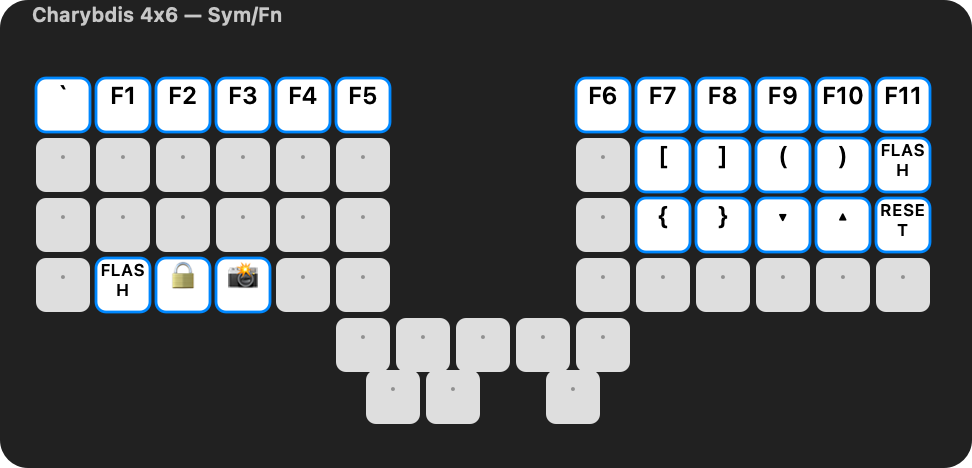
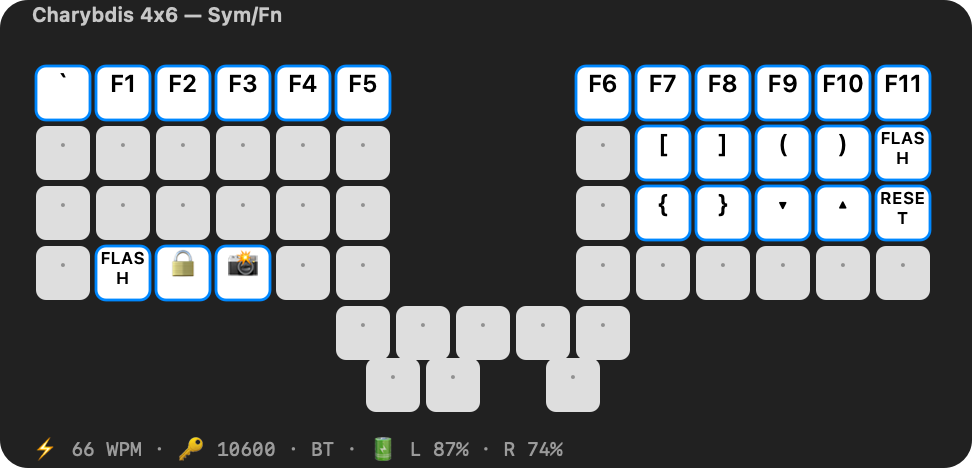
Fix status flicker, read per-half batteries, bake demo stats into exports
The status line used to flip between a short and long version every
second because the one-second refresh also fired the slow
system_profiler probe whose result landed later. Fast refresh now
composes from a cached status that only a slow 45-second probe updates.
Battery parsing scopes the device block by indentation and collects
every Battery Level entry, so both halves show when the firmware
proxies the peripheral battery. Asset export gains a --demo mode that
seeds realistic usage data, producing heatmap and stats panel images
alongside the layer renders.

💘 Generated with Crush

Assisted-by: Crush:glm-5.3

diff --git a/main.swift b/main.swift
@@ -230,23 +230,44 @@ final class KeyboardView: NSView {
 
 struct SystemStatus {
     var transport: String = "연결 없음"
-    var battery: String?
+    var batteries: [String] = []
+
+    var batteryText: String {
+        switch batteries.count {
+        case 0: return ""
+        case 1: return "· 🔋 \(batteries[0])"
+        default: return "· 🔋 L \(batteries[0]) · R \(batteries[1])"
+        }
+    }
 
     static func probe() -> SystemStatus {
         var st = SystemStatus()
         if let out = run("/usr/sbin/system_profiler", ["SPBluetoothDataType"]) {
-            var inDevice = false
-            var battery: String?
-            for line in out.split(separator: "\n") {
+            // Scope the Charybdis block by indentation so every Battery
+            // Level line inside it is collected (central + proxied peripheral).
+            var inCharybdis = false
+            var baseIndent = Int.max
+            var batteries: [String] = []
+            for line in out.split(separator: "\n").map(String.init) {
+                if line.trimmingCharacters(in: .whitespaces).isEmpty { continue }
+                let indent = line.prefix { $0 == " " }.count
                 let trimmed = line.trimmingCharacters(in: .whitespaces)
-                if trimmed.hasPrefix("Charybdis:") { inDevice = true; continue }
-                if trimmed.hasSuffix(":") { inDevice = false }
-                if inDevice, let r = trimmed.range(of: "Battery Level:") {
-                    battery = String(trimmed[r.upperBound...]).trimmingCharacters(in: .whitespaces)
+                if trimmed.hasPrefix("Charybdis:") {
+                    inCharybdis = true
+                    baseIndent = indent
+                    continue
+                }
+                guard inCharybdis else { continue }
+                if indent <= baseIndent {
+                    inCharybdis = false
+                    continue
+                }
+                if let r = trimmed.range(of: "Battery Level:") {
+                    batteries.append(String(trimmed[r.upperBound...]).trimmingCharacters(in: .whitespaces))
                 }
             }
-            if battery != nil { st.transport = "BT" }
-            st.battery = battery
+            if !batteries.isEmpty { st.transport = "BT" }
+            st.batteries = batteries
         }
         if let out = run("/usr/sbin/system_profiler", ["SPUSBDataType"]),
            out.contains("ZMK") || out.contains("Charybdis") {
@@ -325,10 +346,14 @@ final class AppDelegate: NSObject, NSApplicationDelegate, NSWindowDelegate {
         }
         Timer.scheduledTimer(withTimeInterval: 30, repeats: true) { _ in stats.save() }
         Timer.scheduledTimer(withTimeInterval: 1, repeats: true) { [weak self] _ in
-            self?.refreshStatus()
+            self?.refreshStatusFast()
             self?.refreshStatsText()
         }
-        refreshStatus()
+        Timer.scheduledTimer(withTimeInterval: 45, repeats: true) { [weak self] _ in
+            self?.probeStatusSlow()
+        }
+        refreshStatusFast()
+        probeStatusSlow()
         refreshStatsText()
     }
 
@@ -338,10 +363,14 @@ final class AppDelegate: NSObject, NSApplicationDelegate, NSWindowDelegate {
 
     /// Renders each layer to PNG plus an animated GIF cycling through them.
     /// Used for README assets and for sharing one's keymap as an image.
+    /// Pass --demo in the arguments to seed realistic stats first so the
+    /// exported images show a lived-in keyboard (heatmap, WPM, counts).
     func exportAssets(to dirPath: String) {
         let dir = URL(fileURLWithPath: dirPath)
         try? FileManager.default.createDirectory(at: dir, withIntermediateDirectories: true)
         store.load()
+        let demo = ProcessInfo.processInfo.arguments.contains("--demo")
+        if demo { stats.seedDemo() }
         let kb = KeyboardView(frame: NSRect(x: 0, y: 0, width: kbSize.width, height: kbSize.height))
         kb.store = store
         let pad: CGFloat = 16
@@ -350,34 +379,34 @@ final class AppDelegate: NSObject, NSApplicationDelegate, NSWindowDelegate {
         var frames: [NSImage] = []
         for (i, layer) in store.layers.enumerated() {
             kb.layerIndex = i
-            guard let rep = NSBitmapImageRep(bitmapDataPlanes: nil, pixelsWide: Int(size.width * 2),
-                                             pixelsHigh: Int(size.height * 2), bitsPerSample: 8,
-                                             samplesPerPixel: 4, hasAlpha: true, isPlanar: false,
-                                             colorSpaceName: .deviceRGB, bytesPerRow: 0, bitsPerPixel: 0)
-            else { continue }
-            rep.size = size
-            NSGraphicsContext.saveGraphicsState()
-            NSGraphicsContext.current = NSGraphicsContext(bitmapImageRep: rep)
-            NSColor(white: 0.13, alpha: 1).setFill()
-            NSBezierPath(roundedRect: NSRect(origin: .zero, size: size), xRadius: 14, yRadius: 14).fill()
-            let title = "\(store.preset.name) — \(layer.displayName)"
-            let attrs: [NSAttributedString.Key: Any] = [
-                .font: NSFont.systemFont(ofSize: 10, weight: .semibold),
-                .foregroundColor: NSColor.white.withAlphaComponent(0.75)
-            ]
-            NSAttributedString(string: title, attributes: attrs)
-                .draw(at: NSPoint(x: pad, y: size.height - 14))
-            let ctx = NSGraphicsContext.current!.cgContext
-            ctx.translateBy(x: pad, y: pad)
-            kb.frame = NSRect(origin: .zero, size: kbSize)
-            kb.draw(kb.bounds)
-            NSGraphicsContext.restoreGraphicsState()
+            guard let rep = renderLayer(kb, size: size, pad: pad, title: "\(store.preset.name) — \(layer.displayName)") else { continue }
             if let png = rep.representation(using: .png, properties: [:]) {
                 let url = dir.appendingPathComponent("layer-\(i).png")
                 try? png.write(to: url)
                 print("wrote \(url.path)")
             }
             frames.append(NSImage(cgImage: rep.cgImage!, size: rep.size))
+        }
+
+        if demo {
+            kb.heatmap = true
+            kb.layerIndex = 0
+            if let rep = renderLayer(kb, size: size, pad: pad,
+                                     title: "\(store.preset.name) — Heatmap 🔥") {
+                if let png = rep.representation(using: .png, properties: [:]) {
+                    let url = dir.appendingPathComponent("heatmap.png")
+                    try? png.write(to: url)
+                    print("wrote \(url.path)")
+                }
+            }
+        }
+
+        if demo, let rep = renderStatsPanel(size: NSSize(width: 480, height: 460)) {
+            if let png = rep.representation(using: .png, properties: [:]) {
+                let url = dir.appendingPathComponent("stats.png")
+                try? png.write(to: url)
+                print("wrote \(url.path)")
+            }
         }
 
         guard frames.count > 1 else { return }
@@ -400,6 +429,66 @@ final class AppDelegate: NSObject, NSApplicationDelegate, NSWindowDelegate {
                 print("wrote \(url.path)")
             }
         }
+    }
+
+    private func renderLayer(_ kb: KeyboardView, size: NSSize, pad: CGFloat, title: String) -> NSBitmapImageRep? {
+        guard let rep = NSBitmapImageRep(bitmapDataPlanes: nil, pixelsWide: Int(size.width * 2),
+                                         pixelsHigh: Int(size.height * 2), bitsPerSample: 8,
+                                         samplesPerPixel: 4, hasAlpha: true, isPlanar: false,
+                                         colorSpaceName: .deviceRGB, bytesPerRow: 0, bitsPerPixel: 0)
+        else { return nil }
+        rep.size = size
+        NSGraphicsContext.saveGraphicsState()
+        NSGraphicsContext.current = NSGraphicsContext(bitmapImageRep: rep)
+        NSColor(white: 0.13, alpha: 1).setFill()
+        NSBezierPath(roundedRect: NSRect(origin: .zero, size: size), xRadius: 14, yRadius: 14).fill()
+        let titleAttrs: [NSAttributedString.Key: Any] = [
+            .font: NSFont.systemFont(ofSize: 10, weight: .semibold),
+            .foregroundColor: NSColor.white.withAlphaComponent(0.75)
+        ]
+        NSAttributedString(string: title, attributes: titleAttrs)
+            .draw(at: NSPoint(x: pad, y: size.height - 14))
+        let status = "⚡ \(stats.wpm) WPM · 🔑 \(stats.todayKeys) · BT · 🔋 L 87% · R 74%"
+        let statusAttrs: [NSAttributedString.Key: Any] = [
+            .font: NSFont.monospacedSystemFont(ofSize: 9.5, weight: .regular),
+            .foregroundColor: NSColor.white.withAlphaComponent(0.55)
+        ]
+        NSAttributedString(string: status, attributes: statusAttrs)
+            .draw(at: NSPoint(x: pad, y: 3))
+        let ctx = NSGraphicsContext.current!.cgContext
+        ctx.translateBy(x: pad, y: pad + 6)
+        kb.frame = NSRect(origin: .zero, size: kbSize)
+        kb.draw(kb.bounds)
+        NSGraphicsContext.restoreGraphicsState()
+        return rep
+    }
+
+    private func renderStatsPanel(size: NSSize) -> NSBitmapImageRep? {
+        guard let rep = NSBitmapImageRep(bitmapDataPlanes: nil, pixelsWide: Int(size.width * 2),
+                                         pixelsHigh: Int(size.height * 2), bitsPerSample: 8,
+                                         samplesPerPixel: 4, hasAlpha: true, isPlanar: false,
+                                         colorSpaceName: .deviceRGB, bytesPerRow: 0, bitsPerPixel: 0)
+        else { return nil }
+        rep.size = size
+        NSGraphicsContext.saveGraphicsState()
+        NSGraphicsContext.current = NSGraphicsContext(bitmapImageRep: rep)
+        NSColor(white: 0.13, alpha: 1).setFill()
+        NSBezierPath(roundedRect: NSRect(origin: .zero, size: size), xRadius: 14, yRadius: 14).fill()
+        let heading = NSAttributedString(string: "통계", attributes: [
+            .font: NSFont.systemFont(ofSize: 13, weight: .bold),
+            .foregroundColor: NSColor.white
+        ])
+        heading.draw(at: NSPoint(x: 16, y: size.height - 26))
+        let para = NSMutableParagraphStyle()
+        para.lineSpacing = 2
+        let body = NSAttributedString(string: statsReport(), attributes: [
+            .font: NSFont.monospacedSystemFont(ofSize: 11, weight: .regular),
+            .foregroundColor: NSColor.white.withAlphaComponent(0.85),
+            .paragraphStyle: para
+        ])
+        body.draw(in: NSRect(x: 16, y: 12, width: size.width - 32, height: size.height - 48))
+        NSGraphicsContext.restoreGraphicsState()
+        return rep
     }
 
     private var kbSize: NSSize {
@@ -478,7 +567,7 @@ final class AppDelegate: NSObject, NSApplicationDelegate, NSWindowDelegate {
         panel.setFrame(oldFrame, display: true)
         if kbView.layerIndex >= store.layers.count { kbView.layerIndex = 0 }
         styleLayerButtons()
-        refreshStatus()
+        refreshStatusFast()
     }
 
     private func buildStatsPanel() {
@@ -585,22 +674,33 @@ final class AppDelegate: NSObject, NSApplicationDelegate, NSWindowDelegate {
         if panel.isVisible { panel.orderOut(nil) } else { panel.orderFrontRegardless() }
     }
 
-    private func refreshStatus() {
-        statusLabel?.stringValue = "⚡ \(stats.wpm) WPM · 🔑 \(stats.todayKeys)"
+    private var cachedStatus = SystemStatus()
+
+    /// Composes the status line from cached data only — runs every second and
+    /// must never trigger the slow system_profiler probe (that alternation is
+    /// what made the label flicker).
+    private func refreshStatusFast() {
+        let fileName = store.keymapURL?.lastPathComponent ?? (store.lastError ?? "키맵 없음")
+        statusLabel?.stringValue = "⚡ \(stats.wpm) WPM · 🔑 \(stats.todayKeys) · "
+            + "\(store.preset.name) · \(cachedStatus.transport) \(cachedStatus.batteryText) · \(fileName)"
+    }
+
+    private func probeStatusSlow() {
         DispatchQueue.global(qos: .utility).async { [weak self] in
             let st = SystemStatus.probe()
             DispatchQueue.main.async {
-                guard let self else { return }
-                var text = "\(self.store.preset.name) · \(st.transport)"
-                if let b = st.battery { text += " · 배터리 \(b)" }
-                let fileName = self.store.keymapURL?.lastPathComponent ?? (self.store.lastError ?? "키맵 없음")
-                self.statusLabel?.stringValue = "⚡ \(stats.wpm) WPM · 🔑 \(stats.todayKeys) · " + text + " · " + fileName
+                self?.cachedStatus = st
+                self?.refreshStatusFast()
             }
         }
     }
 
     private func refreshStatsText() {
         guard statsPanel.isVisible, let st = statsText else { return }
+        st.stringValue = statsReport()
+    }
+
+    func statsReport() -> String {
         var lines: [String] = []
         lines.append("오늘: \(stats.todayKeys)키 · 클릭 \(stats.todayClicks) · 스크롤 \(stats.todayScrolls)")
         lines.append("현재 \(stats.wpm) WPM · 누적 \(stats.totalKeys)키")
@@ -638,7 +738,7 @@ final class AppDelegate: NSObject, NSApplicationDelegate, NSWindowDelegate {
                 lines.append("\(name.padding(toLength: 6, withPad: " ", startingAt: 0)) \(secs / 60)분")
             }
         }
-        st.stringValue = lines.joined(separator: "\n")
+        return lines.joined(separator: "\n")
     }
 
     private func installHotkeys() {

diff --git a/StatsEngine.swift b/StatsEngine.swift
@@ -78,6 +78,45 @@ final class StatsEngine {
         }
     }
 
+    // MARK: - Demo data (for exported screenshots; in-memory only)
+
+    /// Seeds plausible usage data so exported images show a lived-in
+    /// keyboard instead of empty counters. Never persisted.
+    func seedDemo() {
+        days.removeAll()
+        keyCounts.removeAll()
+        recentKeys.removeAll()
+
+        // QWERTY-plausible frequency profile (macOS virtual keycodes).
+        let demo: [(Int, Int)] = [
+            (49, 9800), (14, 6400), (0, 5900), (17, 5500), (1, 5400), (2, 5300),
+            (18, 4900), (37, 4600), (4, 4500), (15, 4300), (38, 4200), (11, 3800),
+            (32, 3600), (16, 3500), (40, 3400), (31, 3200), (36, 2600), (35, 2200),
+            (13, 2100), (45, 1800), (46, 1700), (9, 1600), (12, 1300), (43, 1200),
+            (39, 1100), (30, 900), (33, 800), (47, 700), (44, 650), (24, 500),
+            (27, 420), (51, 3900), (36 + 26, 300), (123, 950), (126, 870),
+            (124, 760), (125, 690), (117, 540), (48, 1100), (53, 260),
+        ]
+        for (c, n) in demo { keyCounts[c] = n }
+
+        let cal = Calendar.current
+        let f = DateFormatter()
+        f.dateFormat = "yyyy-MM-dd"
+        let weekKeys = [12800, 9400, 11100, 13200, 8700, 12400, 10600]
+        for (i, keys) in weekKeys.enumerated() {
+            let d = cal.date(byAdding: .day, value: -(6 - i), to: Date())!
+            var ds = DayStats()
+            ds.keys = keys
+            ds.clicks = keys / 18
+            ds.scrolls = keys / 9
+            ds.layerSeconds = [0: 7 * 3600 + 240, 1: 1500, 2: 2600, 3: 420]
+            days[f.string(from: d)] = ds
+        }
+
+        let now = Date()
+        for i in 0..<330 { recentKeys.append(now - Double.random(in: 0...60)) }
+    }
+
     // MARK: - Queries
 
     /// Words per minute over the last 60 seconds (5 keystrokes per word).

diff --git a/README.md b/README.md
@@ -54,8 +54,10 @@ into readable labels (`A/⌥`, `🔒`, `↵/L2`).*
 
 `⌘⌃S` opens the stats panel:
 
+![Stats panel](assets/stats.png)
+
 - ⚡ live WPM and today's keystroke count
-- 📅 7-day typing history (ASCII bar chart)
+- 📅 7-day typing history
 - 🏆 most-used keys ranking
 - ✋ finger load distribution — spot an unbalanced layout before your
   hands do
@@ -66,16 +68,22 @@ Stats persist in `~/Library/Application Support/KeymapOverlay/`.
 ### Heatmap
 
 Toggle 🔥 and keys tint by all-time usage — see which keys earn their
-spot on your layout.
+spot on your layout:
+
+![Heatmap](assets/heatmap.png)
 
 ### Everything else
 
-- USB/Bluetooth connection status and battery readout
+- USB/Bluetooth connection status, with per-half battery
+  (`L 87% · R 74%` — reads every battery entry macOS exposes for the
+  device, including the split peripheral's proxied battery)
 - Dark/light mode aware, draggable, position remembered
 - `⌘⌃K` to hide/show
 - Share your keymap as an image:
   `KeymapOverlay.app --export-assets ~/Desktop` writes one PNG per layer
-  plus an animated GIF (the assets on this page were made this way)
+  plus an animated GIF. Add `--demo` to bake in realistic stats — the
+  images on this page were generated that way. No screen-recording
+  permission needed (views are rendered offscreen).
 
 ## Getting started
 
